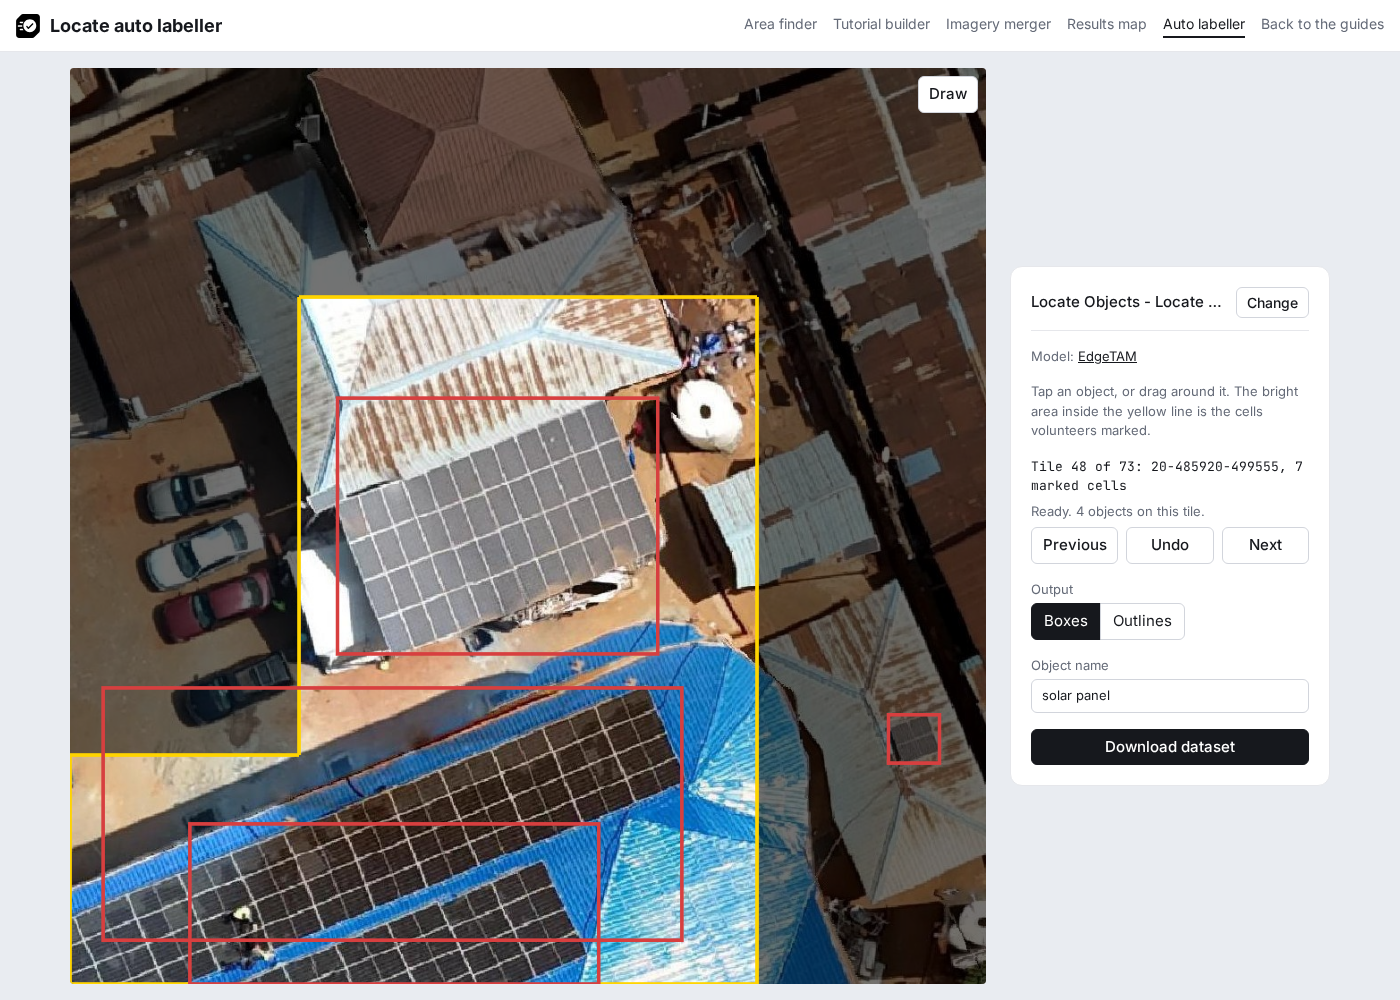
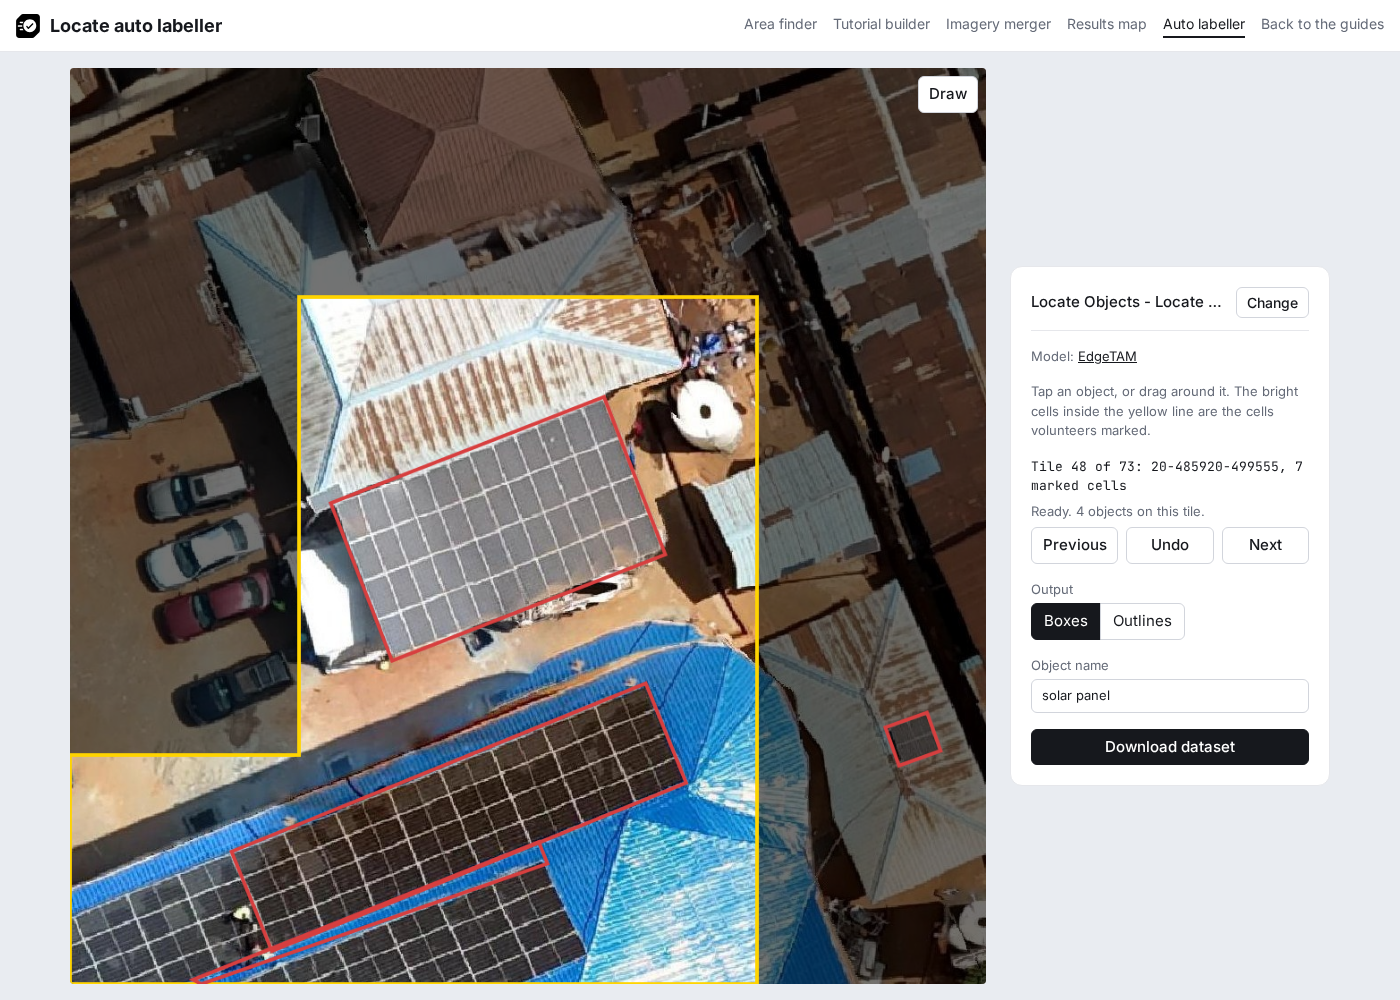
fix(removebox): remove oriented box in edge

diff --git a/docs/builder/boxes.js b/docs/builder/boxes.js
@@ -5,7 +5,7 @@ import { convex } from "https://cdn.jsdelivr.net/npm/@turf/convex@7.4.0/+esm";
 import { EXAMPLE_PROJECT } from "./results-tools.js";
 import { loadProject } from "./results-file.js";
 import { foldSetup, setStatus } from "./setup-card.js";
-import { DRAG_PIXELS, TILE_PIXELS, boxOutline, cellRectangle, clampedCorners, datasetReadme, datasetYaml, detailTiles, dragBox, isDrag, isOutsideImage, keptTiles, labelsGeojson, largestRing, markedAreaEdges, maskBox, obbLabels, rectangleFromSide, restoredObjects, rotatedBox, ringBox, savedObjectsKey, segmentLabels, yoloLabels } from "./boxes-tools.js";
+import { DRAG_PIXELS, TILE_PIXELS, boxOutline, cellRectangle, clampedCorners, datasetReadme, datasetYaml, detailTiles, dragBox, isDrag, isOutsideImage, keptTiles, labelsGeojson, largestRing, markedAreaEdges, maskBox, obbLabels, rectangleFromSide, restoredObjects, rotatedBox, savedObjectsKey, segmentLabels } from "./boxes-tools.js";
 
 const DETAIL_LEVELS = 2;
 const PIXELS = TILE_PIXELS * 2 ** DETAIL_LEVELS;
@@ -79,8 +79,8 @@ function drawObjects() {
   context.lineWidth = 4;
   context.strokeStyle = "#d73f3f";
   const mode = outputMode();
-  for (const { box, outline } of currentObjects()) {
-    strokeRing(context, mode === "segment" ? outline : mode === "obb" ? orientedCorners(outline) : boxOutline(box));
+  for (const { outline } of currentObjects()) {
+    strokeRing(context, mode === "segment" ? outline : orientedCorners(outline));
   }
   updateControls();
 }
@@ -194,12 +194,11 @@ async function findObject({ point, box }) {
   const best = scores.indexOf(Math.max(...scores));
   const [, , height, width] = masks[0].dims;
   const mask = masks[0].data.subarray(best * height * width, (best + 1) * height * width);
-  const objectBox = maskBox(mask, width, height);
-  if (!objectBox) return null;
+  if (!maskBox(mask, width, height)) return null;
   const shape = contours().size([width, height]).smooth(false).thresholds([0.5])(mask)[0];
   const ring = largestRing(shape.coordinates);
   const outline = simplify({ type: "Polygon", coordinates: [ring] }, { tolerance: OUTLINE_TOLERANCE }).coordinates[0];
-  return { box: objectBox, outline };
+  return { outline };
 }
 
 function imagePoint(event) {
@@ -257,7 +256,7 @@ function drawRotated(start, end) {
     setStatus("That box has no width. Drag along one side of the object, then tap the opposite side.");
     return;
   }
-  currentObjects().push({ box: ringBox(outline, PIXELS), outline, source: "drawn by hand" });
+  currentObjects().push({ outline, source: "drawn by hand" });
   afterChange(`Drawn by hand. ${objectCount()}`);
 }
 
@@ -277,7 +276,7 @@ boxCanvas.addEventListener("pointerup", (event) => {
   const point = box ? [(box[0] + box[2]) / 2, (box[1] + box[3]) / 2] : start;
   const objects = currentObjects();
   if (box && drawing()) {
-    objects.push({ box, outline: boxOutline(box), source: "drawn by hand" });
+    objects.push({ outline: boxOutline(box), source: "drawn by hand" });
     afterChange(`Drawn by hand. ${objectCount()}`);
     return;
   }
@@ -405,7 +404,7 @@ async function download() {
   for (const tile of tiles) {
     const objects = shaped.get(tile.id);
     zip.file(`images/${tile.id}.jpg`, await tileImage(tile));
-    const labels = { detect: () => yoloLabels(objects.map(({ box }) => box), PIXELS), segment: () => segmentLabels(objects.map(({ outline }) => outline), PIXELS), obb: () => obbLabels(objects.map(({ corners }) => corners), PIXELS) }[mode]();
+    const labels = mode === "segment" ? segmentLabels(objects.map(({ outline }) => outline), PIXELS) : obbLabels(objects.map(({ corners }) => corners), PIXELS);
     zip.file(`labels/${tile.id}.txt`, labels);
   }
   zip.file("data.yaml", datasetYaml(objectName));

diff --git a/docs/builder/boxes-tools.js b/docs/builder/boxes-tools.js
@@ -106,12 +106,6 @@ export function dragBox(start, end, pixels) {
   return [x1, y1, x2, y2];
 }
 
-// YOLO detection labels: class, then box centre and size as shares of the image side.
-export function yoloLabels(boxes, pixels) {
-  const share = (value) => (value / pixels).toFixed(6);
-  return boxes.map(([x1, y1, x2, y2]) => `0 ${share((x1 + x2) / 2)} ${share((y1 + y2) / 2)} ${share(x2 - x1)} ${share(y2 - y1)}`).join("\n");
-}
-
 // A box drawn by hand has no mask, so its outline is the box itself.
 export function boxOutline([x1, y1, x2, y2]) {
   return [[x1, y1], [x2, y1], [x2, y2], [x1, y2], [x1, y1]];
@@ -150,11 +144,6 @@ export function rectangleFromSide(start, end, point) {
   return [start, end, [end[0] + shiftX, end[1] + shiftY], [start[0] + shiftX, start[1] + shiftY], start];
 }
 
-export function ringBox(ring, pixels) {
-  const [xs, ys] = [ring.map(([x]) => x), ring.map(([, y]) => y)];
-  return clampedCorners([[Math.min(...xs), Math.min(...ys)], [Math.max(...xs), Math.max(...ys)]], pixels).flat();
-}
-
 // YOLO OBB labels: class, then the four corners as shares of the image side.
 export function obbLabels(cornerSets, pixels) {
   const share = (value) => (value / pixels).toFixed(6);
@@ -187,16 +176,13 @@ function lonLatRing(tile, ring, pixels) {
 }
 
 const OUTPUTS = {
-  detect: { dataset: "detection", feature: "box" },
   segment: { dataset: "segmentation", feature: "outline" },
   obb: { dataset: "oriented bounding box (OBB)", feature: "rotated box" },
 };
 
 // Rotated boxes need each object's `corners`, which the page works out with a convex hull.
-function pixelRing({ box, outline, corners }, mode) {
-  if (mode === "segment") return outline;
-  if (mode === "obb") return [...corners, corners[0]];
-  return boxOutline(box);
+function pixelRing({ outline, corners }, mode) {
+  return mode === "segment" ? outline : [...corners, corners[0]];
 }
 
 export function labelsGeojson(tiles, objects, { mode, objectName, pixels }) {

diff --git a/docs/builder/boxes.html b/docs/builder/boxes.html
@@ -63,9 +63,8 @@
       </div>
       <fieldset class="choices">
         <legend>Output</legend>
-        <label><input type="radio" name="mode" value="detect" checked> Boxes</label>
+        <label><input type="radio" name="mode" value="obb" checked> Boxes</label>
         <label><input type="radio" name="mode" value="segment"> Outlines</label>
-        <label><input type="radio" name="mode" value="obb"> Rotated boxes</label>
       </fieldset>
       <label>
         <span>Object name</span>

diff --git a/docs/helpers/index.md b/docs/helpers/index.md
@@ -96,7 +96,7 @@ Use it on a finished project to mark each object on the tiles volunteers marked,
 
 1. In the [auto labeller](../builder/boxes.html), paste the project link, set the **Volunteer share**, for example 50, and click **Load**. The first load downloads the [EdgeTAM](https://huggingface.co/onnx-community/EdgeTAM-ONNX) model, about 41 MB.
 2. Each tile is darker outside the cells volunteers marked, with a yellow line around them. For each group of touching objects, such as the panels of one array, tap its middle or drag a box close around it.
-3. When the result is wrong, press **Undo**, which removes the newest object on the tile, and drag closer. When it stays wrong, turn on **Draw**, which stays on until you turn it off: a drag then keeps the box as drawn, and a tap still asks the model. With **Rotated boxes**, a drawn box takes two steps: drag along one side of the object, then tap the opposite side.
+3. When the result is wrong, press **Undo**, which removes the newest object on the tile, and drag closer. When it stays wrong, turn on **Draw**, which stays on until you turn it off: drag along one side of the object, then tap the opposite side. A tap with no drag before it still asks the model. With **Outlines**, a drag keeps an upright box as drawn.
 4. Move between tiles with **Previous** and **Next**.
 5. Choose the **Output**, set the **Object name**, for example `solar panel`, and click **Download dataset**.
 
@@ -104,11 +104,10 @@ Use it on a finished project to mark each object on the tiles volunteers marked,
 
 | Output | Shape | YOLO task |
 |---|---|---|
-| **Boxes** | The upright box around each object | Detection ([format](https://docs.ultralytics.com/datasets/detect/)) |
-| **Rotated boxes** | The smallest box around the outline, at any angle | Oriented bounding boxes, OBB ([format](https://docs.ultralytics.com/datasets/obb/)) |
+| **Boxes** | The smallest box around the outline, at any angle | Oriented bounding boxes, OBB ([format](https://docs.ultralytics.com/datasets/obb/)) |
 | **Outlines** | The outline of each object | Segmentation ([format](https://docs.ultralytics.com/datasets/segment/)) |
 
-Every object keeps its box and its outline, so the **Output** can change at any time. The objects stay in the browser: loading the same project with the same share brings them back.
+Every object keeps its outline, and its box is worked out from the outline, so the **Output** can change at any time. The objects stay in the browser: loading the same project with the same share brings them back.
 
 **Try the Freetown example** loads the [Freetown solar panel project](../examples/freetown-solar-panels.md).
 
@@ -118,12 +117,12 @@ Every object keeps its box and its outline, so the **Output** can change at any 
     | File | Content |
     |---|---|
     | `images/<tile_id>.jpg` | The 1024 by 1024 pixel tile image |
-    | `labels/<tile_id>.txt` | One line per object, class `0` first, positions as shares of the image side. A rotated box corner past the image edge is moved onto it, because the format takes values between 0 and 1 |
+    | `labels/<tile_id>.txt` | One line per object, class `0` first, positions as shares of the image side. A box corner past the image edge is moved onto it, because the format takes values between 0 and 1 |
     | `data.yaml` | The image folders and the object name for Ultralytics. It uses all images for both training and validation; split them before a real training run |
     | `labels.geojson` | One polygon per object in longitude and latitude (EPSG:4326), in the chosen output |
     | `README.md` | The project, share, model and counts, the tile URL to add in QGIS as an XYZ connection, and the QGIS steps |
 
-    Each feature in `labels.geojson` has `tile_id`, `image` (the file in the `.zip` file), `object_name`, `output` (`box`, `rotated box` or `outline`), `source` (the model, or `drawn by hand`), `marked_cells` (how many cells volunteers marked on the tile) and `imagery_url`. Pixel positions are turned into longitude and latitude through the tile's place in the Web Mercator tile grid, and each outer ring runs counterclockwise, as [RFC 7946](https://datatracker.ietf.org/doc/html/rfc7946#section-3.1.6) asks.
+    Each feature in `labels.geojson` has `tile_id`, `image` (the file in the `.zip` file), `object_name`, `output` (`rotated box` or `outline`), `source` (the model, or `drawn by hand`), `marked_cells` (how many cells volunteers marked on the tile) and `imagery_url`. Pixel positions are turned into longitude and latitude through the tile's place in the Web Mercator tile grid, and each outer ring runs counterclockwise, as [RFC 7946](https://datatracker.ietf.org/doc/html/rfc7946#section-3.1.6) asks.
 
 ??? note "On a phone"
     [EdgeTAM](https://github.com/facebookresearch/EdgeTAM) is a version of SAM 2 (Segment Anything Model 2) made for devices: its README describes it as "an on-device executable variant of the SAM 2" that "achieves 16 FPS on iPhone 15 Pro Max without quantization" ([paper](https://arxiv.org/abs/2501.07256)). That figure comes from the EdgeTAM authors. The GIF below was recorded in desktop Chromium at phone size (390 by 844 pixels); the speed of the page on a real phone has not been measured.
@@ -139,7 +138,7 @@ Every object keeps its box and its outline, so the **Output** can change at any 
     2. **Image.** Each tile is shown two zoom levels deeper than the project zoom: 16 imagery tiles joined into one 1024 by 1024 pixel image. For a zoom 20 project, the imagery must serve zoom 22 and send CORS headers. Parts beyond the edge of the image are black.
     3. **Image embeddings.** The EdgeTAM image encoder (`vision_encoder.onnx` in the [model repository](https://huggingface.co/onnx-community/EdgeTAM-ONNX/tree/main/onnx)) turns the tile into embeddings once, when the tile opens. [Transformers.js](https://huggingface.co/docs/transformers.js) runs it on the CPU with WebAssembly: with the Freetown example in Chromium on an Intel Core i9-14900HX laptop, about 1 second, and about 6 seconds with the CPU slowed four times. On an HTTPS page the browser keeps the model files ([`useBrowserCache`](https://huggingface.co/docs/transformers.js/api/env)).
     4. **Prompt.** A tap is sent to `prompt_encoder_mask_decoder.onnx` as one point, and a drag as a box with its centre point. Each takes under a second. The page keeps the candidate mask with the highest predicted quality score. A box drawn with **Draw** skips the model.
-    5. **Shapes.** The box is the smallest upright rectangle around the mask. The outline is traced with [d3-contour](https://github.com/d3/d3-contour), keeps the largest shape and is simplified to within one pixel with [@turf/simplify](https://turfjs.org/docs/api/simplify). The rotated box is the smallest rectangle around the outline's convex hull ([@turf/convex](https://turfjs.org/docs/api/convex)).
+    5. **Shapes.** The outline is traced with [d3-contour](https://github.com/d3/d3-contour), keeps the largest shape and is simplified to within one pixel with [@turf/simplify](https://turfjs.org/docs/api/simplify). The box is the smallest rectangle around the outline's convex hull ([@turf/convex](https://turfjs.org/docs/api/convex)).
 
     The inputs were measured on 20 Freetown tiles with 36 hand-drawn reference boxes, counting a result as tight when it overlaps the reference box by at least 0.75. Simulated drags moved each edge of the reference box by a random share of its size.
 

diff --git a/README.md b/README.md
@@ -1,6 +1,6 @@
 # MapSwipe Locate tutorials
 
-Step-by-step guides for creating a MapSwipe Locate Objects project, building its tutorial, publishing it and downloading the results. The site also hosts five helper pages: the area finder, which finds the imagery footprint and prepares the area of interest and cover image; the tutorial builder, for picking tutorial tiles and marking their answers; the imagery merger, which merges several images into one tile URL; the results map, which turns the aggregated results into GeoJSON cells marked by a chosen share of volunteers; and the auto labeller, for marking each object on those tiles with a box, a rotated box or an outline and downloading them as a YOLO detection, oriented bounding box or segmentation dataset with a GeoJSON of the labels.
+Step-by-step guides for creating a MapSwipe Locate Objects project, building its tutorial, publishing it and downloading the results. The site also hosts five helper pages: the area finder, which finds the imagery footprint and prepares the area of interest and cover image; the tutorial builder, for picking tutorial tiles and marking their answers; the imagery merger, which merges several images into one tile URL; the results map, which turns the aggregated results into GeoJSON cells marked by a chosen share of volunteers; and the auto labeller, for marking each object on those tiles with a rotated box or an outline and downloading them as a YOLO oriented bounding box or segmentation dataset with a GeoJSON of the labels.
 
 Published at <https://hotosm.github.io/mapswipe-locate-tutorials/>.
 

diff --git a/docs/examples/freetown-solar-panels.md b/docs/examples/freetown-solar-panels.md
@@ -63,7 +63,7 @@ The cells at 50% in QGIS, as in [Use the results in QGIS](../guides/qgis.md):
 
 ## Training data
 
-The auto labeller loads the same project at a 50% share and lists the 73 tiles. The dataset marks 36 solar panel arrays on 20 of those tiles: EdgeTAM found 32 from a tap or a drag, and 4 were drawn by hand. With **Rotated boxes**, each box follows the angle of the array:
+The auto labeller loads the same project at a 50% share and lists the 73 tiles. The dataset marks 36 solar panel arrays on 20 of those tiles: EdgeTAM found 32 from a tap or a drag, and 4 were drawn by hand. With **Boxes**, each box follows the angle of the array:
 
 ![Rotated boxes around solar panel arrays on a Freetown tile](../assets/examples/freetown-rotated-boxes.jpg)
 
